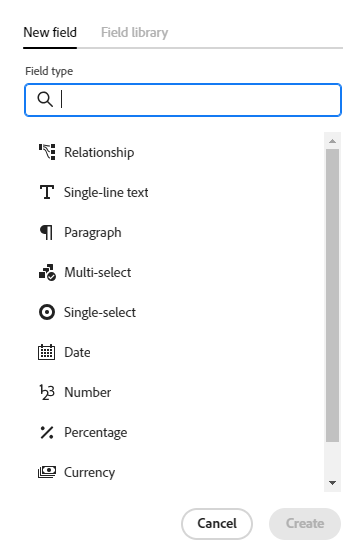
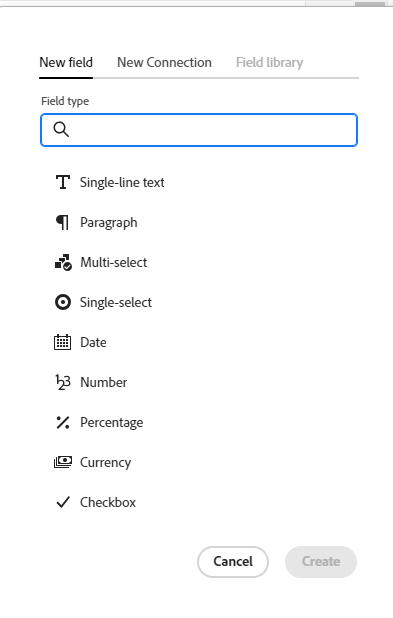
commit-aw-maestro-10-aug

diff --git a/help/quicksilver/maestro/maestro-overview.md b/help/quicksilver/maestro/maestro-overview.md
@@ -159,13 +159,15 @@ The following are the main Maestro objects and concepts:
     
     <!--For more information, see [Create workspaces](../maestro/architecture-and-fields/create-workspaces.md). -->
 
-* **Fields**: Fields are attributes that you can add to operational or taxonomy record types that contain information about the record type. 
+* **Fields**: Fields are attributes that you can add to operational or taxonomy record types that contain information about the record type. <!--check the shot below, "Connection" needs to be in lowercase-->
 
     ![](assets/drop-down-list-of-record-fields.png)
 
-    The fields added for a record type automatically become associated with all records of that type and can be used to capture data about those records. 
+    The fields you add for a record type automatically become associated with all records of that type and can be used to capture data about those records. 
 
     Fields display in the view applied to the records (in columns, if the table view is applied) as well as on the Details page of the record. 
+
+    Fields are unique to a record type and do not transfer from one record type to another. 
     
     A new operational record type is associated with the following predefined fields: 
 
@@ -179,7 +181,6 @@ The following are the main Maestro objects and concepts:
 
     The following are types of fields you can associate with Maestro record types:  
 
-    * Relationship
     * Single-line text 
     * Paragraph   
     * Multi-select 
@@ -190,13 +191,13 @@ The following are the main Maestro objects and concepts:
     * Currency
     * Checkbox  
    
-* **Linked records**:  You can establish a connection between record types by adding a Relationship-type field to a record type. You can link two Maestro records, or a Maestro record with Workfront projects. 
+* **Linked records**:  You can create a connection between two Maestro record types, or between a Maestro record type and a Workfront project object. 
 
-    ![](assets/linked-field-drop-down-menu-with-projects.png)
+    ![](assets/new-connection-tab-with-workfront-option.png)
 
-* **Linked fields**: After establishing the connection between two records, you can reference the linked records' fields on the record you are connecting from.
+* **Linked fields** (or lookup fields): After establishing the connection between two records, you can reference the linked records' fields on the record you are connecting from.
 
-    ![](assets/linked-fields-highlighted-when-adding-relationship-field.png)
+    ![](assets/add-lookup-fields-modal.png)
 
 <!--not yet:* Fields are reusable across Record Types.  -->
 <!--For more information, see [Create fields](../maestro/architecture-and-fields/create-fields.md)-->  
@@ -307,6 +308,7 @@ The following table illustrates the main features that will be available in Maes
 |     Create taxonomies                              |   ✓                           |                                  |                  |
 |     Create individual, named records and taxonomies|   ✓                           |                                  |                  |
 |     Create record custom fields                    |   ✓                           |                                  |                  |
+|     Import record types and fields using an Excel file                              |   ✓                           |                                  |                  |
 |     Link records                                   |   ✓                           |                                  |                  |
 |     View records in a table                        |   ✓                           |                                  |                  |
 |     View records in a timeline                     |   ✓                           |                                  |                  |
@@ -329,6 +331,24 @@ This section lists the features and patches that have been released after the la
 
 The features are released weekly and are listed in the order of their release, with the most recent first. Customers who are participating in the Maestro closed beta program can access all features in their Preview and Production environments. 
 
+### Week of August 10, 2023
+
+#### Import record types from an Excel file 
+
+Preview and production: August 10, 2023
+
+You can now import an Excel file to create record types in a workspace. The sheets of the file become the record types, and the columns of the file become their respective fields.  
+
+#### Improved experience for connecting record types and projects 
+
+Preview and production: August 10, 2023
+
+We have improved the way you connect record types, including connecting to Workfront projects. As part of this improvement, we made the following changes when adding a field for a record type from the table view:  
+
+* Removed the Relationship-type field from the "New field" tab.  
+
+* Add a "New connection" tab where you can directly select the record or object type you want to connect to, eliminating the need for a Relationship-type field. 
+
 ### Week of July 10, 2023
 
 #### Update the appearance of a record type
@@ -345,7 +365,7 @@ You can now add a Checkbox field type to Maestro record types. You can use the C
 
 ### Week of June 26, 2023
 
-#### Quick activation of the contextual menu in a table (title) 
+#### Quick activation of the contextual menu in a table
 
 Preview and production: June 28, 2023
  
@@ -359,7 +379,7 @@ We have introduced a requirement now that the field names of a Maestro record ty
 
 ### Week of June 5, 2023
 
-#### **Connect Maestro records with Workfront projects**
+#### Connect Maestro records with Workfront projects
 
 Preview and production: June 5, 2023
 
@@ -371,7 +391,7 @@ You can now connect a Maestro record with Workfront projects. You must first cre
 
 ### Week of May 29, 2023
 
-#### **Two-date requirement for creating a Timeline view** 
+#### Two-date requirement for creating a Timeline view
 
 Preview and production: May 31, 2023  
 
